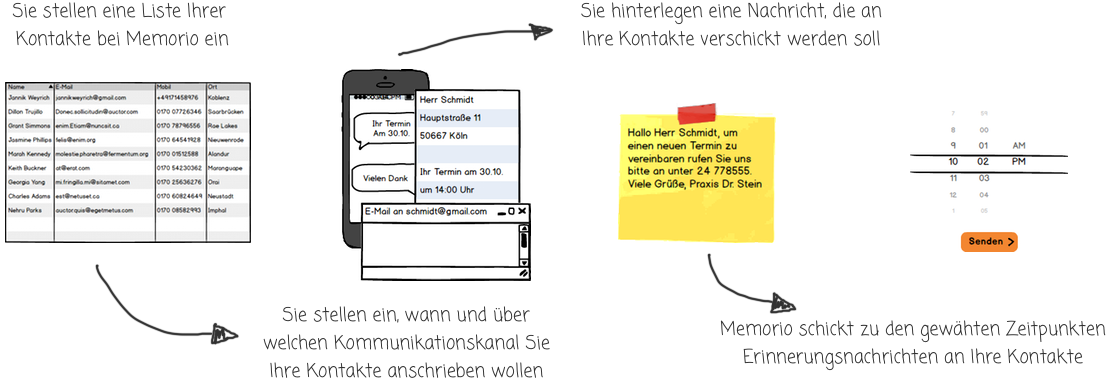
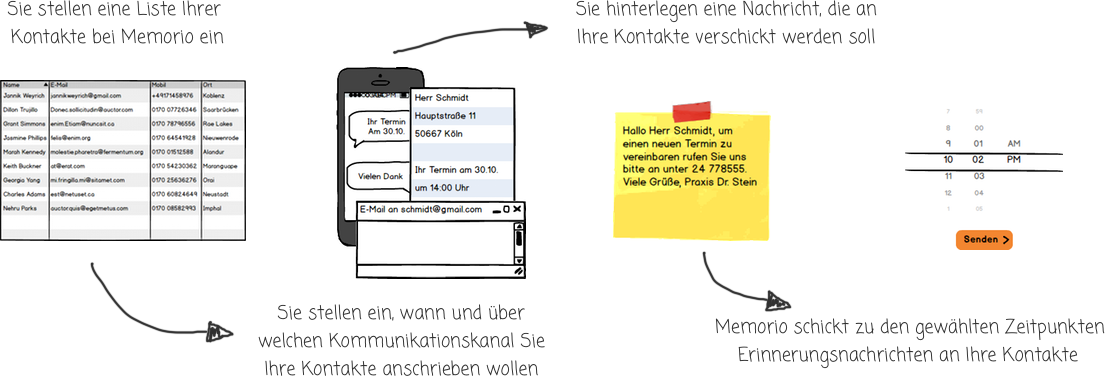
Fixed typos (pages and how it works image)

diff --git a/features/index.html b/features/index.html
@@ -18,7 +18,7 @@ title: Funktionen
                             <i class="fa fa-tablet fa-3x"></i>
                         </div>
                         <div class="col-xs-9">
-                            Verfügbar auf Computer, Tablets & Smartphones
+                            Verfügbar auf Computern, Tablets & Smartphones
                         </div>
                     </div>
                 </div>
@@ -29,7 +29,7 @@ title: Funktionen
                             <i class="fa fa-share-alt fa-3x"></i>
                         </div>
                         <div class="col-xs-9">
-                            Patienten über SMS, E-Mail, App & E-Mail kontaktieren
+                            Patienten über SMS, E-Mail & mobile App kontaktieren
                         </div>
                     </div>
                 </div>
@@ -84,20 +84,19 @@ title: Funktionen
         <div class="container">
             <div class="row">
                 <div class="col-md-4 col-md-offset-2">
-                    <img src="/img/app-screenshot-address-list-view.png" alt="Adressliste"
+                    <img src="/img/app-screenshot-address-list-view.png" alt="Adressliste der Memorion SaaS App"
                          class="img-circle img-responsive">
                 </div>
                 <div class="col-md-4 col-md-offset-2">
                     <h3>Einfache Bedienung</h3>
-
                     <p>
-                        Unser System ist da um Ihre Arbeit zu erleichtern, nicht um alles kompizierter zu machen.
+                        Unser System ist da um Ihre Arbeit zu erleichtern, nicht um alles komplizierter zu machen.
                         Daher legen wir größten Wert auf Benutzerfreundlichkeit. Wir arbeiten ständig daran unsere
-                        Anwendung zu optimieren, damit sie Ihre Arbeit so schnell und einfach wie möglich absolvieren
+                        Anwendung zu optimieren, damit Sie Ihre Arbeit so schnell und einfach wie möglich absolvieren
                         können.
                     </p>
                     <ul>
-                        <li>Einfache Bearbeitung</li>
+                        <li>Einfache Handhabung</li>
                         <li>Import aus bestehenden Systemen</li>
                         <li>Alles auf einen Blick</li>
                     </ul>
@@ -115,13 +114,13 @@ title: Funktionen
                     <ul>
                         <li>SMS</li>
                         <li>E-Mail</li>
-                        <li>Post</li>
+                        <li>Post (in Kürze verfügbar)</li>
                         <li>WhatsApp (in Kürze verfügbar)</li>
-                        <li>SMS (in Kürze verfügbar)</li>
+                        <li>Mobile App (in Kürze verfügbar)</li>
                     </ul>
                 </div>
                 <div class="col-md-4 col-md-offset-2">
-                    <img src="/img/app-screenshot-simple-setup.png" alt="Adressliste" class="img-circle img-responsive">
+                    <img src="/img/app-screenshot-simple-setup.png" alt="Kommunikationskanäle" class="img-circle img-responsive">
                 </div>
             </div>
         </div>
@@ -130,15 +129,15 @@ title: Funktionen
         <div class="container">
             <div class="row">
                 <div class="col-md-4 col-md-offset-2">
-                    <img src="/img/app-screenshot-security.png" alt="Adressliste" class="img-circle img-responsive">
+                    <img src="/img/app-screenshot-security.png" alt="Security Login Screen" class="img-circle img-responsive">
                 </div>
                 <div class="col-md-4 col-md-offset-2">
                     <h3>Ihre Daten Sind sicher!</h3>
 
-                    <p>Die Sicherheit Ihrer Daten hat bei uns höchste Priorität. Daher setzen wir sowohl auf höchste
-                        Technische sowie organisatorische Sicherheitsstandards</p>
+                    <p>Die Sicherheit Ihrer Daten hat bei uns höchste Priorität. Daher setzen wir auf hohe
+                        Technische Sicherheitsstandards</p>
                     <ul>
-                        <li>Verschlüsselung nach Bankstandards (256 Bit)</li>
+                        <li>Kommunikationsverschlüsselung mit 256 Bit</li>
                         <li>Zugangskontrolle</li>
                         <li>Einstellbare Passwortsicherheit</li>
                     </ul>
@@ -149,21 +148,24 @@ title: Funktionen
     <section>
         <div class="container">
             <div class="row">
-                <div class="col-xs-12">
-                    <h3>Was ist Memorio genau?</h3>
+                <div class="col-md-8 col-md-offset-2">
+                    <h3>Was ist Memorio?</h3>
 
                     <p>
-                        Memorio ist ein sicherer und einfach zu bedienender Kundenbindungsservice, der es Ihnen
+                        Memorio ist eine sichere und einfach zu bedienende Webanwendung, die es Ihnen
                         ermöglicht regelmäßig und automatisiert mit Ihren Patienten, Kunden oder Interessenten in
                         Kontakt zu treten.
                         Mit Hilfe von Memorio können Sie Ihre Patienten, Kunden oder Interessenten über verschiedene
-                        Informationskanäle,wie z. B. Email, sms, whatsapp, facebook, twitter, Papier/Post oder Telefon
-                        in frei definierbaren Intervallen an Termine, Vorsorgeuntersuchungen und professionelle
-                        Zahnreinigungen erinnern (oder über neue Ereignisse rund um Ihr Geschäft informieren) .
+                        Informationskanäle, wie z. B. Email, SMS, whatsapp, Facebook, Twitter, Papier/Post oder Telefon
+                        in frei definierbaren Intervallen an Termine, Vorsorgeuntersuchungen, professionelle
+                        Zahnreinigungen erinnern oder über neue Ereignisse rund um Ihr Geschäft informieren.
+                    </p>
+                    <h3>Mission</h3>
+                    <p>
                         Unsere wichtigsten Ziele für Memorio sind es Ihnen einen einfachen, sicheren und schnellen
                         Kommunikationskanal zu Ihren Patienten, Kunden oder Interessenten bereitzustellen, um eine regelmäßige,
-                        zeitsparende und einfache Ansprache Ihrer Patienten, Kunden oder Interessenten zu ermöglichen. So können Sie sich
-                        auf Ihr Kerngeschäft konzentrieren während wir Ihre bestehenden Patienten, Kunden oder Interessenten über
+                        zeitsparende und einfache Ansprache Ihrer Patienten, Kunden oder Interessenten zu ermöglichen. So können Sie
+                        sich auf Ihr Kerngeschäft konzentrieren, während wir Ihre bestehenden Patienten, Kunden oder Interessenten über
                         regelmäßige Termine, Behandlungen oder Ereignisse informieren.
                     </p>
                 </div>

diff --git a/index.html b/index.html
@@ -15,11 +15,11 @@ master_title: Memorio - Einfache, schnelle und effiziente Kommunikation mit Ihre
                 <div>
                     <h1 class="visible-v1">Memorio sendet automatische Erinnerungen für Untersuchungen an Ihre Patienten</h1>
                     <ul class="fa-ul">
-                        <li><i class="fa-li fa fa-check"></i>Einfache Bedienung.</li>
-                        <li><i class="fa-li fa fa-check"></i>Keine Installation notwendig.</li>
-                        <li><i class="fa-li fa fa-check"></i>Zugriff von Ihren Computern, Tablets und Smartphones.</li>
+                        <li><i class="fa-li fa fa-check"></i>Einfache Bedienung</li>
+                        <li><i class="fa-li fa fa-check"></i>Keine Installation notwendig</li>
+                        <li><i class="fa-li fa fa-check"></i>Zugriff von Ihren Computern, Tablets und Smartphones</li>
                         <li><i class="fa-li fa fa-check"></i>Kontaktieren Sie Ihre Patienten über verschiedene Kommunikationskanäle</li>
-                        <li><i class="fa-li fa fa-check"></i>Sicher durch Verschlüsselung nach Bankstandards</li>
+                        <li><i class="fa-li fa fa-check"></i>Sicher durch Verschlüsselung (SSL)</li>
                     </ul>
 
                     <p class="lead">Einfach, sicher und auf Wunsch vollautomatisch</p>
@@ -31,11 +31,11 @@ master_title: Memorio - Einfache, schnelle und effiziente Kommunikation mit Ihre
         </div>
     </div>
 </div>
-<section class="research-anouncemet">
-    <div class="container">
-        <p class="text-center"><a href="/research/"> Lesen Sie eine Befragung von über 1000 Zahnärzten bezüglich Recall Software</a></p>
-    </div>
-</section>
+<!--<section class="research-anouncemet">-->
+    <!--<div class="container">-->
+        <!--<p class="text-center"><a href="/research/"> Lesen Sie eine Befragung von über 1000 Zahnärzten bezüglich Recall Software</a></p>-->
+    <!--</div>-->
+<!--</section>-->
 <div class="striped-section-wrapper regular">
     <section class="how-it-works">
         <div class="container">
@@ -47,22 +47,23 @@ master_title: Memorio - Einfache, schnelle und effiziente Kommunikation mit Ihre
         <div class="container">
             <div class="row">
                 <div class="col-md-8 col-md-offset-2">
-                    <h3>Was ist Memorio genau?</h3>
+                    <h3>Was ist Memorio?</h3>
 
                     <p>
-                        Memorio ist ein sicherer und einfach zu bedienender Kundenbindungsservice, der es Ihnen
+                        Memorio ist eine sichere und einfach zu bedienende Webanwendung, die es Ihnen
                         ermöglicht regelmäßig und automatisiert mit Ihren Patienten, Kunden oder Interessenten in
                         Kontakt zu treten.
                         Mit Hilfe von Memorio können Sie Ihre Patienten, Kunden oder Interessenten über verschiedene
-                        Informationskanäle,wie z. B. Email, sms, whatsapp, facebook, twitter, Papier/Post oder Telefon
-                        in frei definierbaren Intervallen an Termine, Vorsorgeuntersuchungen und professionelle
-                        Zahnreinigungen erinnern (oder über neue Ereignisse rund um Ihr Geschäft informieren).
+                        Informationskanäle, wie z. B. Email, SMS, whatsapp, Facebook, Twitter, Papier/Post oder Telefon
+                        in frei definierbaren Intervallen an Termine, Vorsorgeuntersuchungen, professionelle
+                        Zahnreinigungen erinnern oder über neue Ereignisse rund um Ihr Geschäft informieren.
                     </p>
+                    <h3>Mission</h3>
                     <p>
                         Unsere wichtigsten Ziele für Memorio sind es Ihnen einen einfachen, sicheren und schnellen
                         Kommunikationskanal zu Ihren Patienten, Kunden oder Interessenten bereitzustellen, um eine regelmäßige,
-                        zeitsparende und einfache Ansprache Ihrer Patienten, Kunden oder Interessenten zu ermöglichen. So können Sie sich
-                        auf Ihr Kerngeschäft konzentrieren während wir Ihre bestehenden Patienten, Kunden oder Interessenten über
+                        zeitsparende und einfache Ansprache Ihrer Patienten, Kunden oder Interessenten zu ermöglichen. So können Sie
+                        sich auf Ihr Kerngeschäft konzentrieren, während wir Ihre bestehenden Patienten, Kunden oder Interessenten über
                         regelmäßige Termine, Behandlungen oder Ereignisse informieren.
                     </p>
                 </div>

diff --git a/pricing/index.html b/pricing/index.html
@@ -14,7 +14,7 @@ title: Preise
                 <div class="col-md-8 col-md-offset-2">
                     <br>
                     <div class="alert alert-info">
-                        <p><b>Memorio ist für Sie in der Beta Phase kostenlos!</b> Die hier aufgelisteten Preise sind die Vorläufigen Preise für das Endprodukt.</p>
+                        <p><b>Memorio ist für Sie in der Beta Phase kostenlos!</b> Die hier aufgelisteten Preise sind die vorläufigen Preise für das Endprodukt.</p>
                     </div>
                     <div class="row">
                         <div class="col-sm-6">
@@ -28,7 +28,8 @@ title: Preise
                                         <span class="label label-success">10% Rabatt nach der Beta-Phase</span>
                                     </h3>
                                     <p>
-                                        Eine kostenpflichge Nutzung des späteren Produkts ist natürlich <u>keine Voraussetzung</u> für die Teilnahme an der Beta-Phase.
+                                        Eine kostenpflichge Nutzung des späteren Produkts ist natürlich <span
+                                            style="text-decoration: underline;">keine Voraussetzung</span> für die Teilnahme an der Beta-Phase.
                                     </p>
                                 </div>
                                 <div class="panel-footer"><b>Kostenlos</b></div>
@@ -36,7 +37,7 @@ title: Preise
                         </div>
                         <div class="col-sm-6">
                             <div class="panel panel-default">
-                                <div class="panel-heading">Professional (noch nicht verfügbar)</div>
+                                <div class="panel-heading">Professional</div>
                                 <div class="panel-body">
                                     <p>
                                         Nachdem die Beta-Phase (Testphase) abgeschlossen ist, werden wir diese Funktionen anbieten.

diff --git a/research/index.html b/research/index.html
@@ -14,8 +14,8 @@ title: Befragung von über 1000 Zahnärzten
         <div class="row">
             <div class="col-md-8 col-md-offset-2">
                 <br>
-                <p>Um einen Eindruck zu bekomen, ob ein Bedarf für eine Recall-Software wie Memorio
-                    besteht haben wir eine Befragung von 1000 zufällig ausgewählten Zahnartztpraxen durchgeführt.
+                <p>Um einen Eindruck zu bekommen, ob ein Bedarf für eine Recall-Software wie Memorio
+                    besteht, haben wir eine Befragung von 1000 zufällig ausgewählten Zahnartztpraxen durchgeführt.
                     Die Ergebnisse sind hier veröffentlicht:
                 </p>
                 <br>

diff --git a/contact/index.html b/contact/index.html
@@ -19,8 +19,8 @@ title: Kontakt
                         </div>
                         <div class="col-xs-9">
                             <address>
-                                Jannik Weyrich<br>
-                                Memorio<br>
+                                Memorio Software<br>
+                                Zu Hd. Jannik Weyrich<br>
                                 Entenpfuhl 12<br>
                                 56068 Koblenz<br>
                                 <br>
